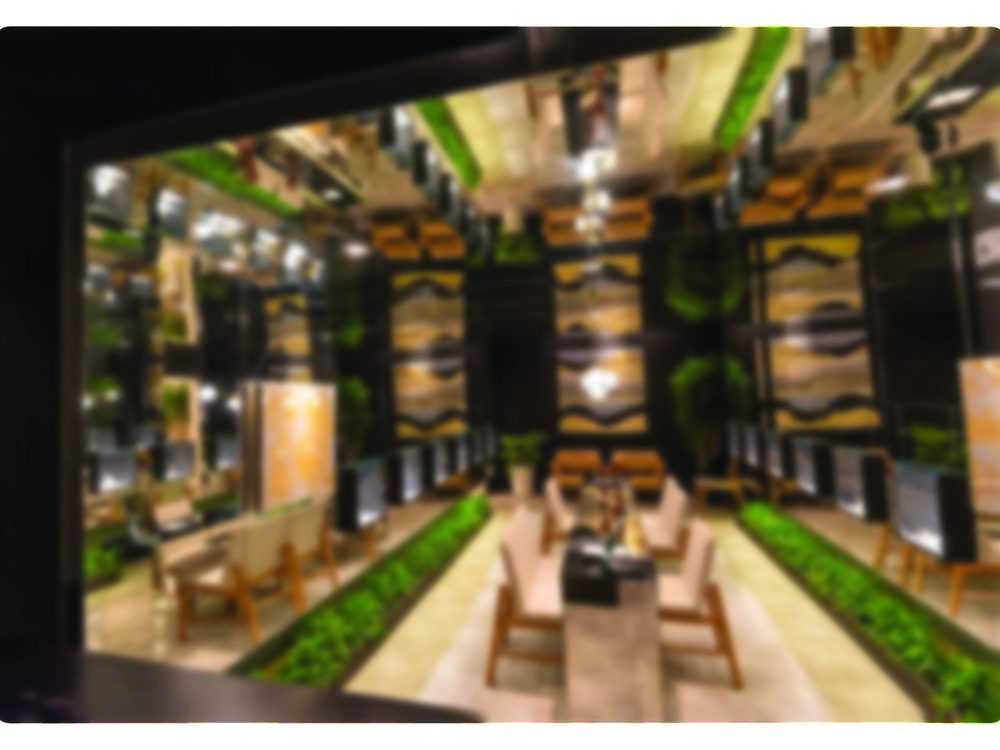
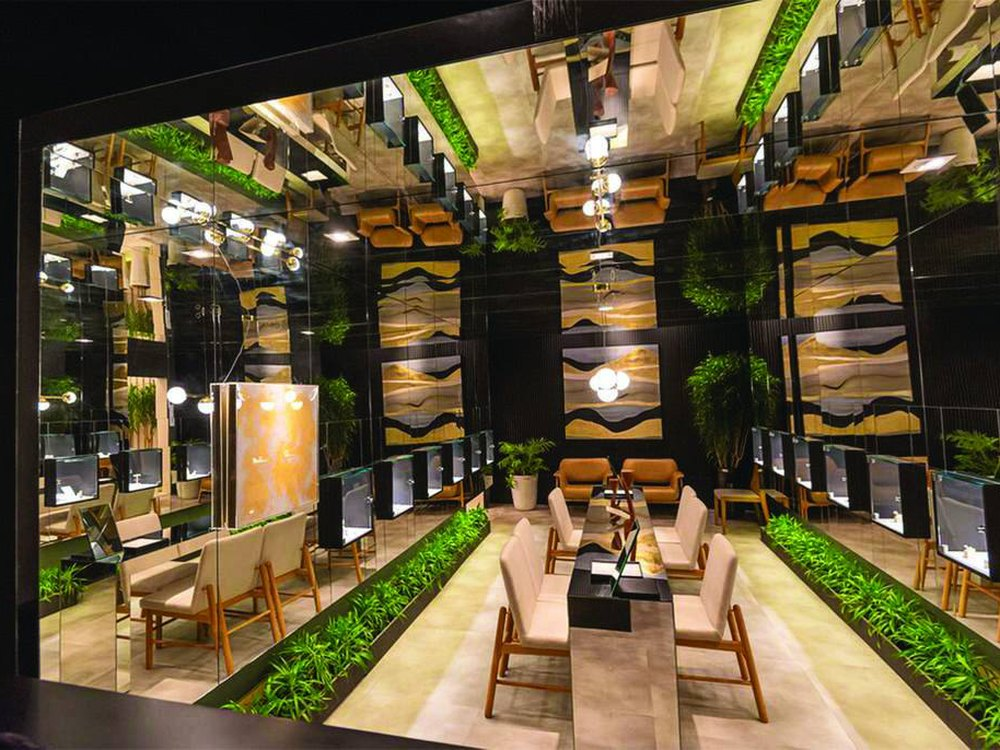
استبدال صور المنتجات الضبابية بنسخها الواضحة
- الفريملس: كانت الصورة المستخرجة هي خلفية الصفحة الضبابية في ملف
  PDF؛ استُبدلت بالصورة الحادة من الصفحة نفسها
- المرايا: كانت خلفية ضبابية يظهر فيها مربع النص المطبوع على الصفحة؛
  استُخرجت الصورة الحادة الأصغر من الصفحة واستُبدلت بها
- القواطع: صورة قواطع مكاتب حقيقية بدل تكرار المشهد نفسه، وحُذف
  التكرار الثالث من معرض صور منتج الفريملس

فُحصت حدة جميع صور المنتجات التسع برمجياً بعد الاستبدال.

Claude-Session: https://claude.ai/code/session_01KUUvaa7kNMetKeefh8m55a

diff --git a/assets/js/data.js b/assets/js/data.js
@@ -117,7 +117,7 @@ window.PRODUCTS = [
     nameEn: "Frameless System — Spider · Sliding · Floor Spring · Partitions",
     short: "واجهات ثابتة، نظام الاسبايدر، أبواب سحاب، أبواب مروحة، وقواطع زجاجية.",
     desc: "أنظمة الزجاج الفريملس بلا قطاعات ظاهرة، وتشمل: الواجهات الثابتة، والواجهات بنظام الاسبايدر بمشابك ستانلس، وأبواب السحاب الزجاجية، والأبواب المروحية بمكاين أرضية (فلور سبرنج)، والقواطع الزجاجية للمكاتب والمحلات. تمنح شفافية عالية ومظهراً فاخراً مع سهولة التنفيذ دون أعمال بناء.",
-    img: ["assets/img/products/frameless.jpg", "assets/img/products/partitions.jpg", "assets/img/projects/project-5.jpg"],
+    img: ["assets/img/products/frameless.jpg", "assets/img/products/partitions.jpg"],
     unit: "م²", price: null, featured: true,
     specs: [
       { k: "الأنواع", v: "واجهات ثابتة · اسبايدر · أبواب سحاب · أبواب مروحة · قواطع" },
